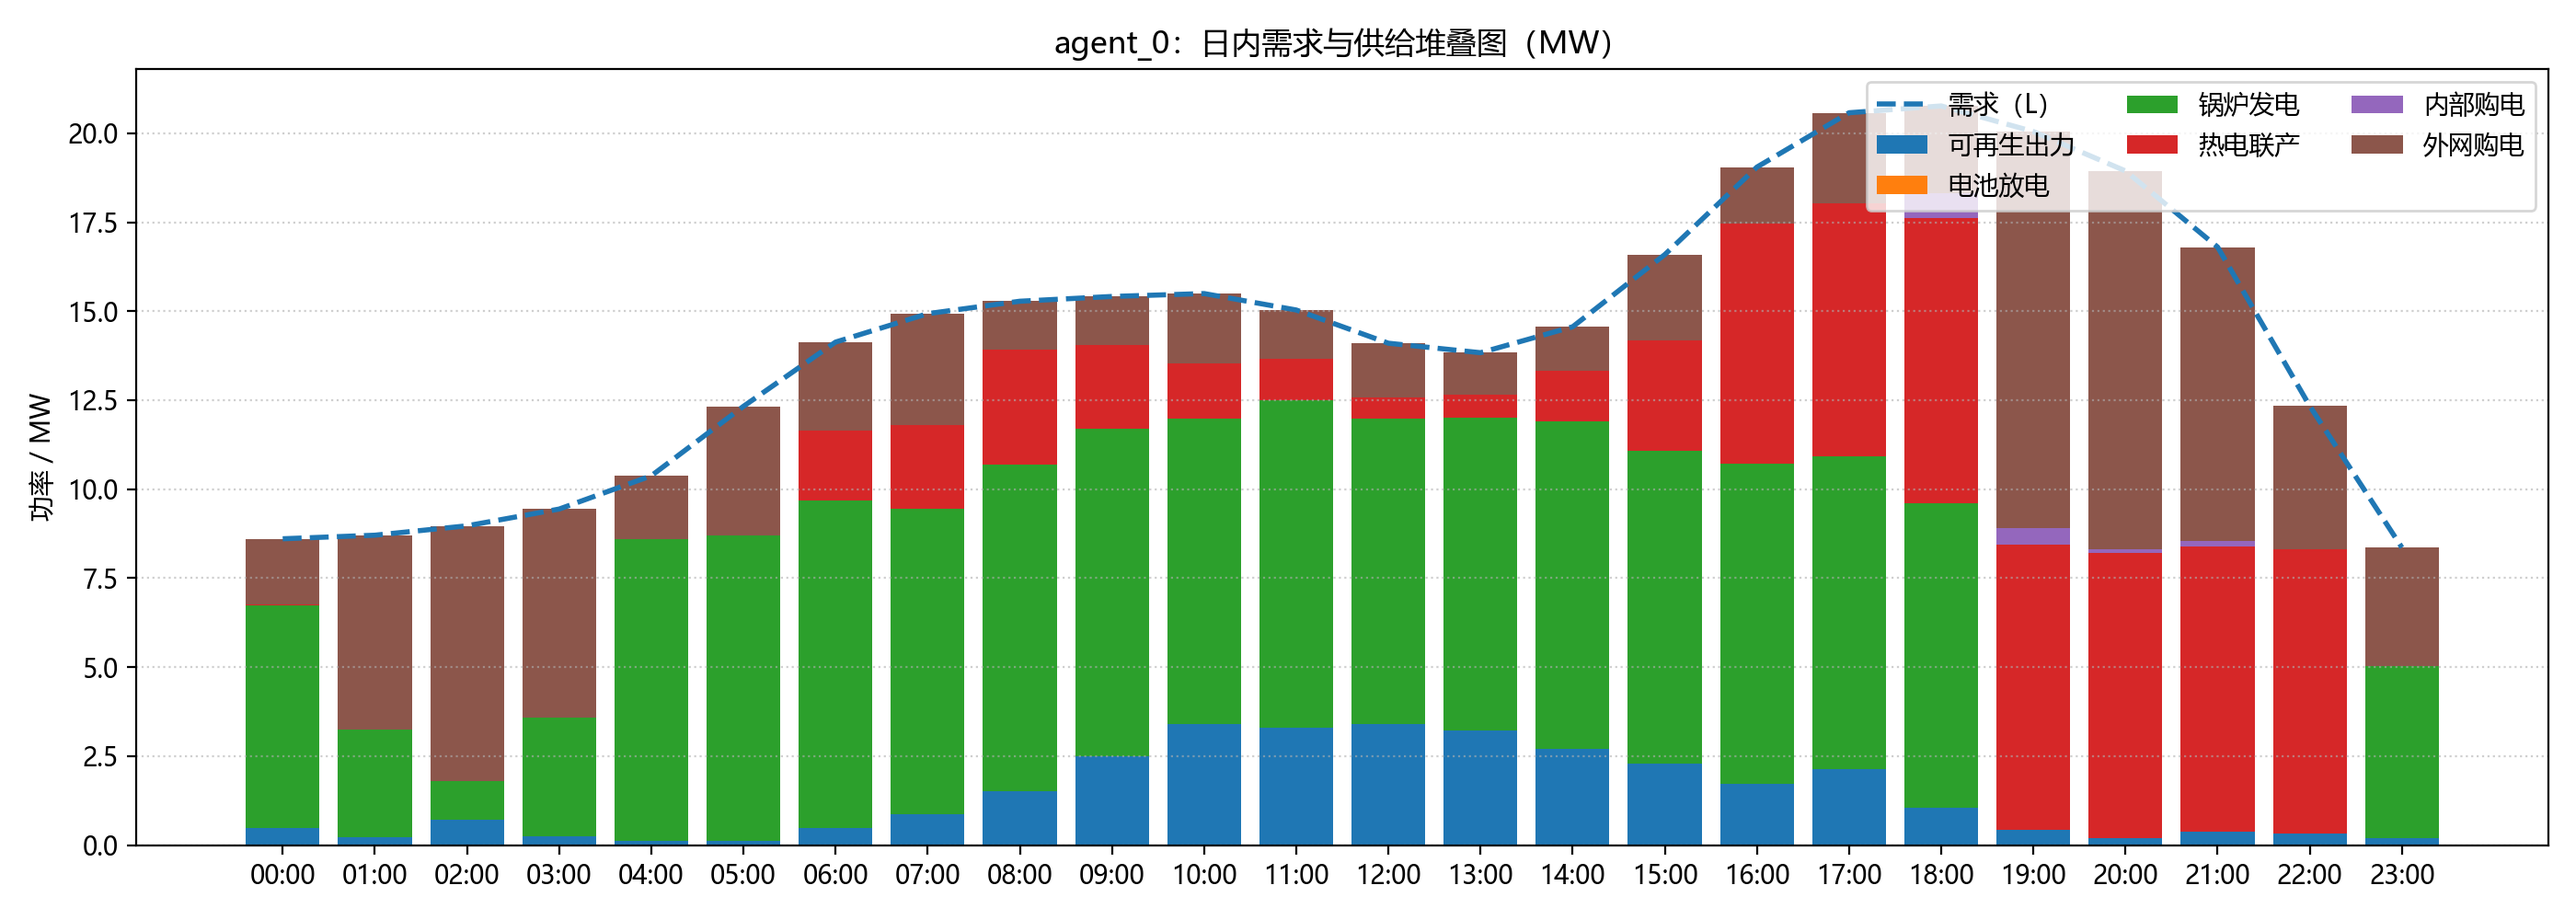
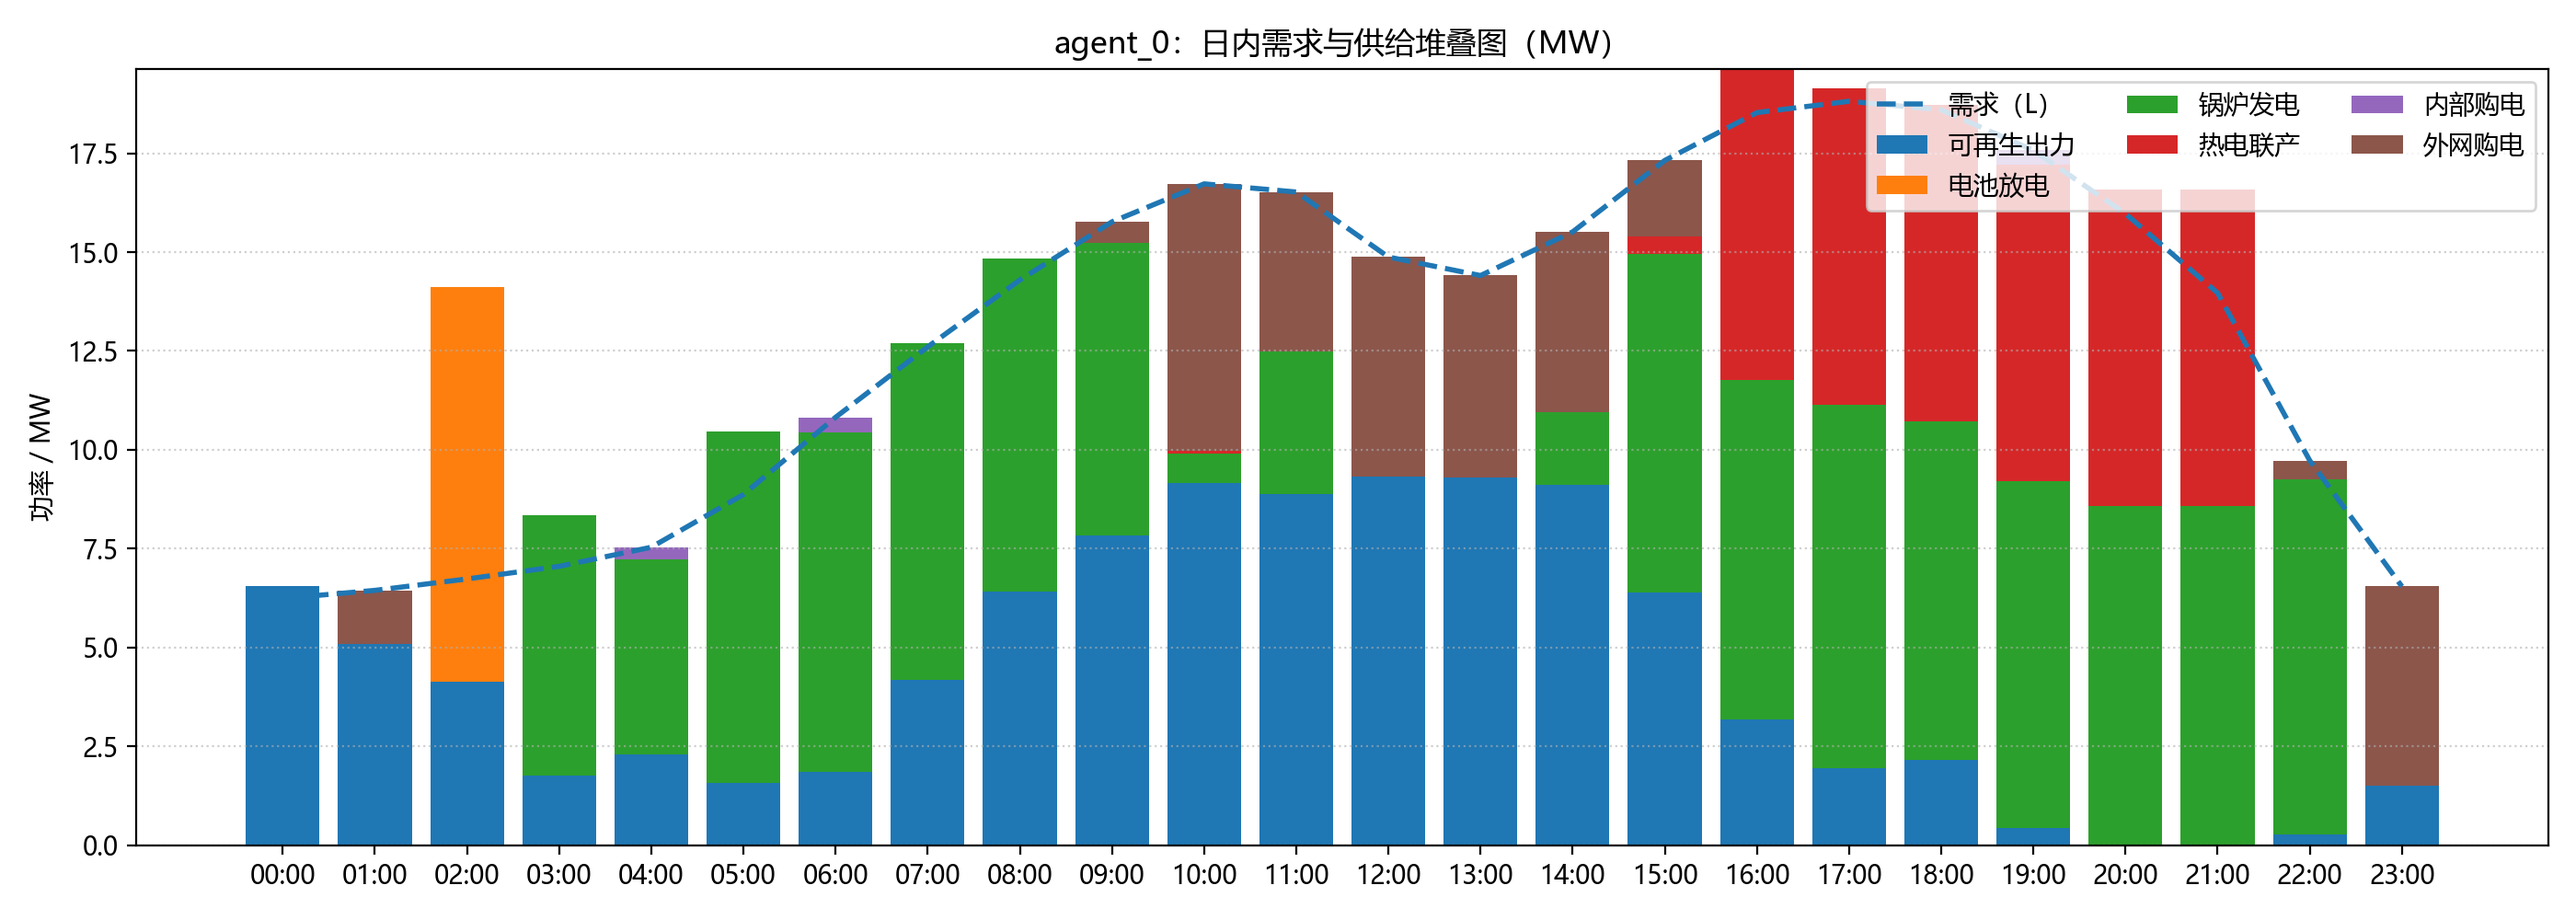
调整为异步参数

diff --git a/flcore/Env/multi_env.py b/flcore/Env/multi_env.py
@@ -22,6 +22,19 @@ class BatteryEnvSingle(gym.Env):
                  penalty_soc=0.0,
                  episode_len=24,          # 由协调器传全局长度
                  obs_norm=True,           # 仍保留，便于后续扩展
+                 #锅炉参数
+                 Fbmax = 2,
+                 cf = 612,
+                 #chp参数
+                 CHP_a = 0.72,
+                 CHP_b = 0.405,
+                 CHP_c = 0.108,
+                 CHP_d = 229.2,
+                 CHP_e = 171.9,
+                 CHP_f = 75,
+                 #HB参数
+                 P_HB_e_h = 15,
+                 P_HB_e_l = 0,
                  seed: int | None = None,
                  ):
         super().__init__()
@@ -36,8 +49,21 @@ class BatteryEnvSingle(gym.Env):
         self.penalty_soc = float(penalty_soc)
         self.obs_norm = bool(obs_norm)
         # 锅炉参数
-        self.Fbmax = 2
+        self.Fbmax = Fbmax
         self.LHV = 5.8111
+        self.cf = cf
+
+        # CHP参数
+        self.CHP_a = CHP_a
+        self.CHP_b = CHP_b
+        self.CHP_c = CHP_c
+        self.CHP_d = CHP_d
+        self.CHP_e = CHP_e
+        self.CHP_f = CHP_f
+
+        # HB参数
+        self.P_HB_e_h = P_HB_e_h
+        self.P_HB_e_l = P_HB_e_l
 
         # 时序（由协调器控制，这里只作回合步计数）
         self.episode_len = int(episode_len)
@@ -218,6 +244,7 @@ class BatteryEnvSingle(gym.Env):
         P_ch = 0.3
         P_dis = 0.3
         self._hsoc = (1-eta)*self._hsoc + (P_ch*a_ch- P_dis/a_dis)
+
     def _boiler_block(self,  a_norm: float):
         u = (float(np.clip(a_norm, -1.0, 1.0)) + 1.0) / 2.0  # u∈[0,1]
         u = max(0.0, 2.0 * (u - 0.1))  # 去中心：u=0.5 -> 0，u=1->1，u=0->0
@@ -228,9 +255,9 @@ class BatteryEnvSingle(gym.Env):
         return M_bfw, p_gen
 
     def _boiler_cost(self,fuel_kgph,P_boiler_e):
-        cf = 612
+
         gf = 0.8325
-        boiler_cost = cf * fuel_kgph  + gf * self.cco2 * P_boiler_e
+        boiler_cost = self.cf * fuel_kgph  + gf * self.cco2 * P_boiler_e
         return boiler_cost
     #定义热电联产模块
     def _CHP_block(self,  a_norm: float):
@@ -261,13 +288,11 @@ class BatteryEnvSingle(gym.Env):
 
     # 定义热泵模块
     def _HB_block(self, a_norm: float):
-        # 定义参数
-        P_HB_e_h = 15
-        P_HB_e_l = 0
+
 
         # 获取动作
         u = (float(np.clip(a_norm, -1.0, 1.0)) + 1.0) / 2.0  # u∈[0,1]
-        P_HB_h = u * (P_HB_e_h - P_HB_e_l) + P_HB_e_l
+        P_HB_h = u * (self.P_HB_e_h - self.P_HB_e_l) + self.P_HB_e_l
         return P_HB_h
 
     def _HB_cost(self,HB_h):
@@ -288,7 +313,10 @@ class MultiBatteryCoordinator(gym.Env):
     - step(action_dict): 收集各子环境的 net_power_MW、本地成本，统一做“电力结算”后再给奖励
     - 这里先按“外网电价直接结算”占位；你后续可替换为内部市场出清（式14/15）
     """
-    def __init__(self, series: Dict[str, np.ndarray], n_agents: int, **single_kwargs):
+    def __init__(self, series: Dict[str, np.ndarray],
+                 n_agents: int,
+                 per_agent_kwargs,
+                 **single_kwargs):
         super().__init__()
         self.n_agents = int(n_agents)
         self.agents: List[str] = [f"agent_{i}" for i in range(self.n_agents)]
@@ -307,11 +335,17 @@ class MultiBatteryCoordinator(gym.Env):
 
         # 创建 N 个独立子环境（不再传入 series）
         # episode_len 用全局 T 或你训练时的滑窗长度
-        self.envs: Dict[str, BatteryEnvSingle] = {
-            aid: BatteryEnvSingle(episode_len=self.T, **single_kwargs,
-                                  seed=np.random.randint(1, 10_000_000))
-            for aid in self.agents
-        }
+        # == 构造每个 agent 自己的子环境（支持覆盖参数） ==
+        per_agent_kwargs = per_agent_kwargs or {}
+        self.envs: Dict[str, BatteryEnvSingle] = {}
+        for aid in self.agents:
+            local = dict(single_kwargs)  # 默认参数
+            local.update(per_agent_kwargs.get(aid, {}))  # 逐 agent 覆盖
+            self.envs[aid] = BatteryEnvSingle(
+                episode_len=self.T,
+                **local,
+                seed=np.random.randint(1, 10_000_000)
+            )
 
         # 动作/观测空间字典
         self.observation_spaces: Dict[str, spaces.Box] = {aid: env.observation_space for aid, env in self.envs.items()}

diff --git a/flcore/train/train_common.py b/flcore/train/train_common.py
@@ -43,6 +43,36 @@ def default_presets() -> Presets:
         dt_hours=1.0,
         deg_cost_per_MW=1,
         obs_norm=True,
+        # === 新增：逐 agent 覆盖 ===
+        per_agent_kwargs={
+            "agent_0": {"E_bat_MWh": 10.0, "P_bat_max_MW": 6.0, "deg_cost_per_MW": 1.0,
+                        "CHP_a" : 0.76,"CHP_b" : 0.4275,"CHP_c" : 0.114,
+                        "CHP_d" : 271.6,"CHP_e" : 203.7,"CHP_f" : 75,
+                        "Fbmax" : 2, "cf" : 612,
+                        "P_HB_e_h" : 15,"P_HB_e_l" : 0,
+                        },
+
+            "agent_1": {"E_bat_MWh": 20.0, "P_bat_max_MW": 8.0, "deg_cost_per_MW": 1.5,
+                        "CHP_a": 0.6, "CHP_b": 0.5, "CHP_c": 0.108,
+                        "CHP_d": 229.2, "CHP_e": 171.9, "CHP_f": 75,
+                        "Fbmax": 1, "cf": 650,
+                        "P_HB_e_h": 5, "P_HB_e_l": 1,
+                        },
+
+            "agent_2": {"E_bat_MWh": 30.0, "P_bat_max_MW": 12.0, "deg_cost_per_MW": 0.8,
+                        "CHP_a" : 0.76,"CHP_b" : 0.4275,"CHP_c" : 0.114,
+                        "CHP_d" : 271.6,"CHP_e" : 203.7,"CHP_f" : 75,
+                        "Fbmax": 2, "cf": 612,
+                        "P_HB_e_h": 15, "P_HB_e_l": 0,
+                        },
+
+            "agent_3": {"E_bat_MWh": 15.0, "P_bat_max_MW": 5.0, "deg_cost_per_MW": 2.0,
+                        "CHP_a" : 0.76,"CHP_b" : 0.4275,"CHP_c" : 0.114,
+                        "CHP_d" : 271.6,"CHP_e" : 203.7,"CHP_f" : 75,
+                        "Fbmax": 2, "cf": 612,
+                        "P_HB_e_h": 15, "P_HB_e_l": 0,
+                        },
+        },
     )
 
     algo_kwargs = dict(

diff --git a/main.py b/main.py
@@ -15,15 +15,19 @@ from flcore.train.train_maddpg import train_maddpg
 
 if __name__ == "__main__":
     #re1,test_re = train_maddpg(episodes=100,train = 7  , test = 1 ,Federated = True)
-    re1, test_re = train_maddpg(episodes=5, train = 1 , test = 1, Federated = False)
-    re2, test_re = train_maddpg(episodes=5, train = 1 , test = 1 ,Federated = True)
-    re1 = np.array(re1)
-    re1 =re1.T
-    re2 = np.array(re2)
-    re2 = re2.T
+    iddpg, test_re = train_iddpg(episodes=5, train = 1 , test = 1, Federated = False)
+    Fed_iddpg, test_re = train_iddpg(episodes=5, train = 1 , test = 1 ,Federated = True)
+    maddpg, test_re = train_maddpg(episodes=5, train=1, test=1, Federated=False)
+    Fed_maddpg, test_re = train_maddpg(episodes=5, train=1, test=1, Federated=True)
 
-    re1_array = np.array(re1)
-    re2_array = np.array(re2)
+    re1 = np.array(iddpg).T
+    re2 = np.array(Fed_iddpg).T
+    re3 = np.array(maddpg).T
+    re4 = np.array(Fed_maddpg).T
+    iddpg = np.array(re1)
+    Fed_iddpg = np.array(re2)
+    maddpg = np.array(re3)
+    Fed_maddpg = np.array(re4)
     # 指定保存目录（例如当前目录下的 'data' 文件夹）
     save_dir = './result'
 
@@ -35,4 +39,4 @@ if __name__ == "__main__":
     file_path = os.path.join(save_dir, 'result_arrays')
 
     # 保存到指定目录
-    np.savez(file_path, array1=re1_array, array2=re2_array)
+    np.savez(file_path, iddpg=iddpg, Fed_iddpg=Fed_iddpg, maddpg=maddpg,Fed_maddpg = Fed_maddpg)

diff --git a/flcore/utils/test_model.py b/flcore/utils/test_model.py
@@ -368,7 +368,7 @@ def test_model_and_plot(algo:str="iddpg",
     # 分智能体：各出一张图
     per = rollout_one_day_per_agent(test_env, model, agents, day_start_idx=day_start, dt_hours=1.0)
     saved_files = plot_daily_stack_per_agent(per, save_dir=f"./result/{algo}", filename_prefix="daily_agent_")
-    grid_path = plot_daily_stack_per_agent_grid(per, save_path=f"./result/{algo}/daily_agents_grid.png",
+    grid_path = plot_daily_stack_per_agent_grid(per, save_path=f"./result/{algo}/daily_agents_Fed{Fed}.png",
                                                 title=f"测试集第 {plot_day_offset+1} 天：各智能体日内需求与供给（MW）")
 
     print("Saved plot -> daily_supply_stack.png")

diff --git a/flcore/algorithm/IDDPG.py b/flcore/algorithm/IDDPG.py
@@ -69,6 +69,7 @@ class IDDPG:
 
         # 初始化每个 agent 的网络
         for i in range(self.n_agents):
+
             actor = Actor(obs_dims[i], action_dims[i], max_actions[i]).to(device)
             actor_t = copy.deepcopy(actor).to(device)
             opt_a = optim.Adam(actor.parameters(), lr=lr_actor)

diff --git a/flcore/utils/plot_epresult.py b/flcore/utils/plot_epresult.py
@@ -10,4 +10,12 @@ def draw_result(rewards_record):
     plt.legend()
     plt.show()
 
-np.load()
+
+rew = np.load("D:\\ITE\\result\\result_arrays.npz")
+data1 = rew["array1"]
+data2=rew["array2"]
+data3=rew["array3"]
+data4=rew["array4"]
+data = [data1,data2,data3,data4]
+for i in data:
+    draw_result(i)
